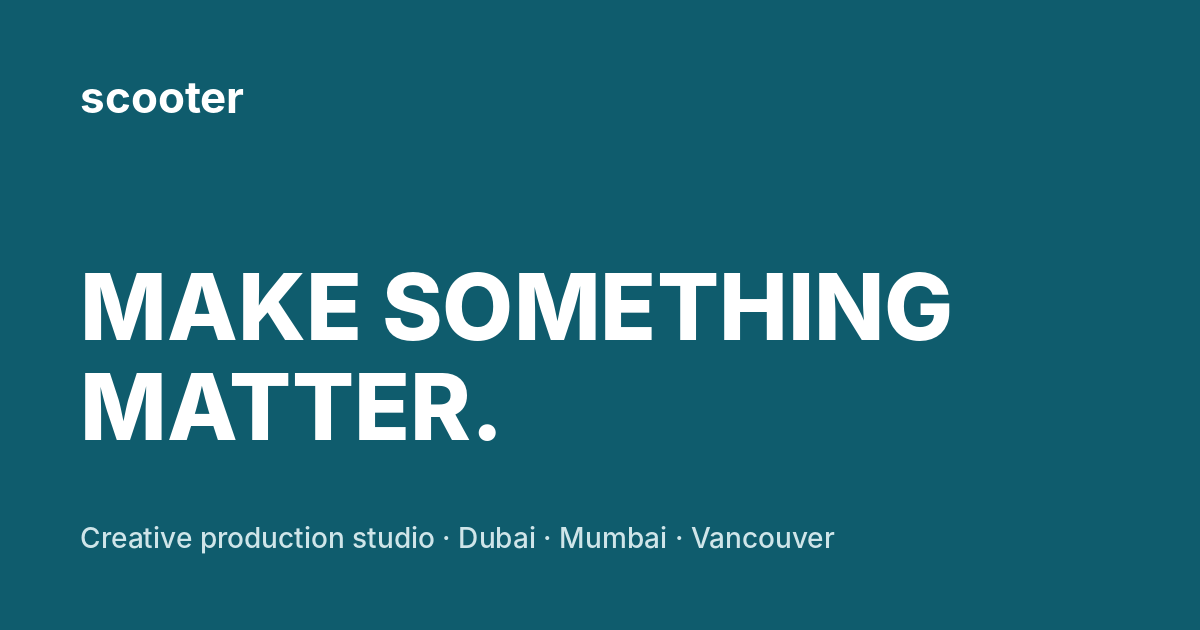
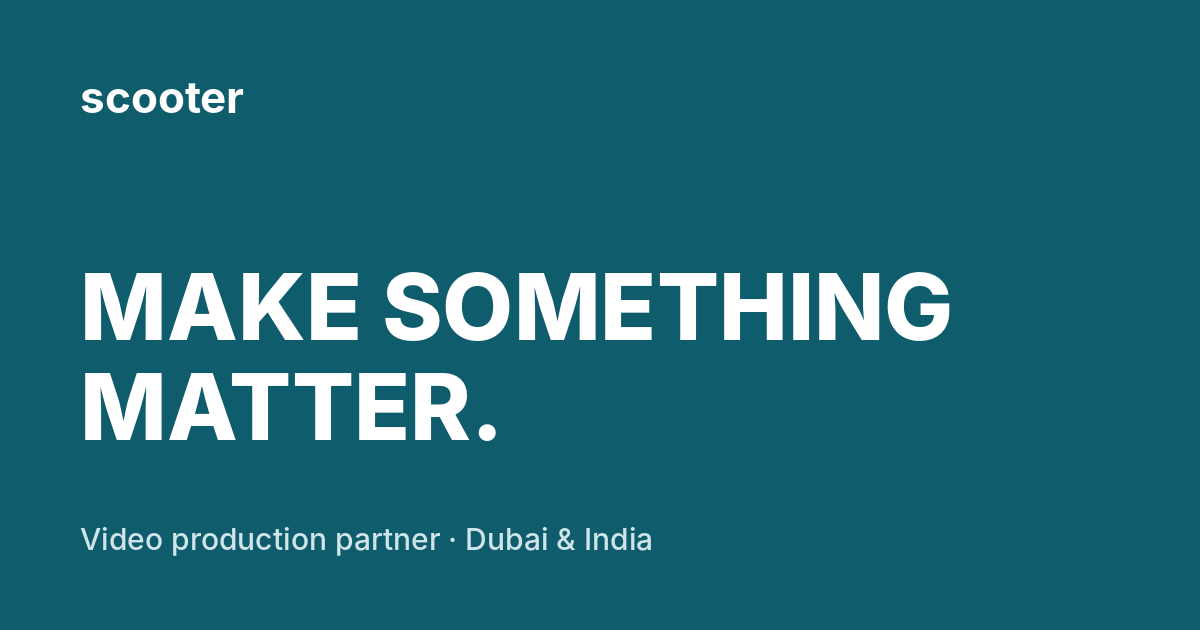
Reposition from "creative production studio" to production partner
- Hero eyebrow: "Production partner · Dubai & India · Est. 2013"
- Hero intro: video production company and end-to-end production
  partner in Dubai and India (pre-production, shoots, post, animation,
  CGI, AI films); creative becomes one part, not the headline
- Footer tagline and share image now say "Video production partner"

Claude-Session: https://claude.ai/code/session_016DFhaNvmjAuoeExki5Y5WS

Changed region(s): [[0.0617, 0.8143, 0.7092, 0.8746]]

diff --git a/index.html b/index.html
@@ -12,14 +12,14 @@
 <meta property="og:title" content="Video Production Company in Dubai &amp;amp; India | Production House | Scooter">
 <meta property="og:description" content="Scooter is a video production company and production house in Dubai and India — film, animation, CGI, AI films and post-production for brands, agencies and real estate across the Middle East. Since 2013.">
 <meta property="og:url" content="https://scootermedia.ae/">
-<meta property="og:image" content="https://scootermedia.ae/assets/img/og-image.png">
+<meta property="og:image" content="https://scootermedia.ae/assets/img/og-image.png?v=20261110i">
 <meta name="twitter:card" content="summary_large_image">
 <link rel="icon" href="/assets/img/favicon.svg" type="image/svg+xml">
 <link rel="apple-touch-icon" href="/assets/img/apple-touch-icon.png">
 <link rel="preconnect" href="https://fonts.googleapis.com">
 <link rel="preconnect" href="https://fonts.gstatic.com" crossorigin>
 <link href="https://fonts.googleapis.com/css2?family=Inter:wght@400;500;600;700;800&display=swap" rel="stylesheet">
-<link rel="stylesheet" href="/assets/css/site.css?v=20261110h">
+<link rel="stylesheet" href="/assets/css/site.css?v=20261110i">
 <link rel="preload" as="image" href="/assets/img/hero-poster.jpg?v={VER}">
 <script type="application/ld+json">{"@context": "https://schema.org", "@type": "Organization", "name": "Scooter", "alternateName": "Scooter Media", "url": "https://scootermedia.ae/", "logo": "https://scootermedia.ae/assets/img/og-image.png", "email": "hello@scootermedia.co", "foundingDate": "2013", "description": "Video production company and production house in Dubai and India: film, animation, CGI, AI films and post-production for brands, agencies and real estate across the Middle East.", "knowsAbout": ["Video production", "Post-production", "AI film production", "Real estate video production", "Commercial production", "Animation", "CGI"], "areaServed": ["United Arab Emirates", "Saudi Arabia", "Qatar", "Oman", "Bahrain", "Kuwait", "India", "Middle East"], "sameAs": ["https://www.instagram.com/scootermediacompany", "https://www.linkedin.com/company/scootermediaco", "https://scootermedia.co"]}</script>
 <script type="application/ld+json">{"@context": "https://schema.org", "@type": "ProfessionalService", "name": "Scooter Media Collective – FZCO", "url": "https://scootermedia.ae/", "email": "hello@scootermedia.co", "telephone": "+91 905 122 2997", "image": "https://scootermedia.ae/assets/img/og-image.png", "address": {"@type": "PostalAddress", "streetAddress": "Building A1, Dubai Digital Park, Dubai Silicon Oasis", "addressLocality": "Dubai", "addressCountry": "AE"}, "areaServed": ["United Arab Emirates", "Saudi Arabia", "Qatar", "Oman", "Bahrain", "Kuwait", "India"], "department": [{"@type": "ProfessionalService", "name": "Scooter Media LLP", "address": {"@type": "PostalAddress", "streetAddress": "WeWork Enam Sambhav, C-20 G Block, BKC, Bandra East", "addressLocality": "Mumbai", "postalCode": "400051", "addressCountry": "IN"}}]}</script>
@@ -30,8 +30,8 @@
 
 <main id="main">
 <section class="hero-v" aria-label="Showreel">
-<video autoplay muted loop playsinline preload="auto" poster="/assets/img/hero-poster.jpg?v=20261110h" aria-hidden="true">
-<source src="/assets/video/showreel.mp4?v=20261110h" type="video/mp4">
+<video autoplay muted loop playsinline preload="auto" poster="/assets/img/hero-poster.jpg?v=20261110i" aria-hidden="true">
+<source src="/assets/video/showreel.mp4?v=20261110i" type="video/mp4">
 </video>
 <div class="scrim"></div>
 <header class="hdr hdr--overlay">
@@ -46,10 +46,10 @@
 </header>
 <button type="button" class="sound" aria-pressed="false" aria-label="Turn sound on"><svg width="18" height="18" viewBox="0 0 24 24" fill="none" stroke="currentColor" stroke-width="2" aria-hidden="true"><path d="M11 5L6 9H2v6h4l5 4V5z"/><path d="M15.5 8.5a5 5 0 0 1 0 7M19 5a10 10 0 0 1 0 14"/></svg></button>
 <div class="content"><div class="wrap">
-<p class="eyebrow">Creative production studio · Est. 2013</p>
+<p class="eyebrow">Production partner · Dubai &amp; India · Est. 2013</p>
 <h1>Make something matter.</h1>
 <div class="cols">
-<p>Scooter is a creative production studio in Dubai, UAE, operating globally and creating culturally fluent, visually ambitious content across film, photography, animation, CGI and emerging technology.</p>
+<p>Scooter is a video production company and end-to-end production partner in Dubai and India — from pre-production and shoots to post-production, animation, CGI and AI films — for brands, agencies and real estate across the Middle East and beyond.</p>
 <p>Our work spans genres, formats and geographies, bringing together creative thinking, the right talent and production expertise to shape ideas into compelling work.</p>
 </div>
 <div class="bar">
@@ -77,7 +77,7 @@
 <footer class="ftr">
 <div class="wrap">
 <div class="ftr-grid">
-<div><div class="logo" style="color:var(--ink);line-height:1.4">scooter</div><div style="line-height:1.6;margin-top:8px">Creative production studio.<br>Since 2013.</div></div>
+<div><div class="logo" style="color:var(--ink);line-height:1.4">scooter</div><div style="line-height:1.6;margin-top:8px">Video production partner.<br>Dubai &amp; India, since 2013.</div></div>
 <div><a href="/about/">About</a><br><a href="/clients/">Clients</a><br><a href="/real-estate/">Real Estate</a><br><a href="/ai-films/">AI Films</a><br><a href="/post-production/">Post-Production</a></div>
 <div><a href="/global/">Global</a><br><a href="/news/">In the News</a><br><a href="/contact/">Contact</a><br><a href="https://scootermedia.co" rel="noopener">scootermedia.co ↗</a></div>
 <div><a href="mailto:hello@scootermedia.co" class="mail">hello@scootermedia.co</a><br><a href="https://wa.me/919051222997" rel="noopener">WhatsApp +91 905 122 2997</a><br><a href="https://www.instagram.com/scootermediacompany" rel="noopener">Instagram</a> · <a href="https://www.linkedin.com/company/scootermediaco" rel="noopener">LinkedIn</a></div>
@@ -85,6 +85,6 @@
 <div class="ftr-bottom"><span>© 2026 Scooter Media Collective – FZCO</span><span>Dubai · Mumbai · Vancouver</span></div>
 </div>
 </footer>
-<script src="/assets/js/site.js?v=20261110h" defer></script>
+<script src="/assets/js/site.js?v=20261110i" defer></script>
 </body>
 </html>

diff --git a/real-estate/index.html b/real-estate/index.html
@@ -12,14 +12,14 @@
 <meta property="og:title" content="Real Estate Video Production in Dubai &amp;amp; UAE for Agencies and Realtors | Scooter">
 <meta property="og:description" content="Real estate video production for agencies and realtors in Dubai, the UAE, Saudi Arabia and Qatar — listing films, property photography, drone, agent reels and CGI, with post-production in India.">
 <meta property="og:url" content="https://scootermedia.ae/real-estate/">
-<meta property="og:image" content="https://scootermedia.ae/assets/img/og-image.png">
+<meta property="og:image" content="https://scootermedia.ae/assets/img/og-image.png?v=20261110i">
 <meta name="twitter:card" content="summary_large_image">
 <link rel="icon" href="/assets/img/favicon.svg" type="image/svg+xml">
 <link rel="apple-touch-icon" href="/assets/img/apple-touch-icon.png">
 <link rel="preconnect" href="https://fonts.googleapis.com">
 <link rel="preconnect" href="https://fonts.gstatic.com" crossorigin>
 <link href="https://fonts.googleapis.com/css2?family=Inter:wght@400;500;600;700;800&display=swap" rel="stylesheet">
-<link rel="stylesheet" href="/assets/css/site.css?v=20261110h">
+<link rel="stylesheet" href="/assets/css/site.css?v=20261110i">
 <script type="application/ld+json">{"@context": "https://schema.org", "@type": "Service", "serviceType": "Real estate video and photo production", "provider": {"@type": "Organization", "name": "Scooter", "url": "https://scootermedia.ae/"}, "areaServed": ["Dubai", "United Arab Emirates", "Saudi Arabia", "Qatar"], "audience": {"@type": "BusinessAudience", "audienceType": "Real estate agencies, brokerages, realtors and developers"}}</script>
 <script type="application/ld+json">{"@context": "https://schema.org", "@type": "FAQPage", "mainEntity": [{"@type": "Question", "name": "How quickly can you shoot and deliver a listing?", "acceptedAnswer": {"@type": "Answer", "text": "We can usually shoot within a few days of the brief. Tell us your go-live date and we plan the shoot and edit around it."}}, {"@type": "Question", "name": "Do you work with individual realtors, or only agencies?", "acceptedAnswer": {"@type": "Answer", "text": "Both. We work with brokerages on volume and monthly retainers, and with independent agents on single listings and personal brand content."}}, {"@type": "Question", "name": "Which areas do you cover?", "acceptedAnswer": {"@type": "Answer", "text": "Dubai and across the UAE, with shoots in Saudi Arabia and Qatar. Post-production runs from our India team."}}, {"@type": "Question", "name": "Can you market off-plan projects?", "acceptedAnswer": {"@type": "Answer", "text": "Yes — CGI renders, animated walkthroughs and AI-assisted visuals let you market a project before construction."}}, {"@type": "Question", "name": "Can you edit our property videos remotely from India?", "acceptedAnswer": {"@type": "Answer", "text": "Yes. Send footage from your own shoots and our post-production team in India edits, grades and delivers portal-ready cuts, usually with overnight turnaround across time zones."}}, {"@type": "Question", "name": "Do you deliver in the formats property portals need?", "acceptedAnswer": {"@type": "Answer", "text": "Every project is delivered in horizontal, vertical and square cuts for property portals, Instagram, TikTok, YouTube and WhatsApp."}}]}</script>
 <script type="application/ld+json">{"@context": "https://schema.org", "@type": "BreadcrumbList", "itemListElement": [{"@type": "ListItem", "position": 1, "name": "Home", "item": "https://scootermedia.ae/"}, {"@type": "ListItem", "position": 2, "name": "Real Estate", "item": "https://scootermedia.ae/real-estate/"}]}</script>
@@ -70,7 +70,7 @@
 <footer class="ftr">
 <div class="wrap">
 <div class="ftr-grid">
-<div><div class="logo" style="color:var(--ink);line-height:1.4">scooter</div><div style="line-height:1.6;margin-top:8px">Creative production studio.<br>Since 2013.</div></div>
+<div><div class="logo" style="color:var(--ink);line-height:1.4">scooter</div><div style="line-height:1.6;margin-top:8px">Video production partner.<br>Dubai &amp; India, since 2013.</div></div>
 <div><a href="/about/">About</a><br><a href="/clients/">Clients</a><br><a href="/real-estate/">Real Estate</a><br><a href="/ai-films/">AI Films</a><br><a href="/post-production/">Post-Production</a></div>
 <div><a href="/global/">Global</a><br><a href="/news/">In the News</a><br><a href="/contact/">Contact</a><br><a href="https://scootermedia.co" rel="noopener">scootermedia.co ↗</a></div>
 <div><a href="mailto:hello@scootermedia.co" class="mail">hello@scootermedia.co</a><br><a href="https://wa.me/919051222997" rel="noopener">WhatsApp +91 905 122 2997</a><br><a href="https://www.instagram.com/scootermediacompany" rel="noopener">Instagram</a> · <a href="https://www.linkedin.com/company/scootermediaco" rel="noopener">LinkedIn</a></div>
@@ -78,6 +78,6 @@
 <div class="ftr-bottom"><span>© 2026 Scooter Media Collective – FZCO</span><span>Dubai · Mumbai · Vancouver</span></div>
 </div>
 </footer>
-<script src="/assets/js/site.js?v=20261110h" defer></script>
+<script src="/assets/js/site.js?v=20261110i" defer></script>
 </body>
 </html>

diff --git a/post-production/index.html b/post-production/index.html
@@ -12,14 +12,14 @@
 <meta property="og:title" content="Post-Production Partner in India for Middle East Agencies | Scooter">
 <meta property="og:description" content="Scooter is a post-production partner in India for agencies and brands in Dubai, the UAE and the Middle East — edit, colour, sound, VFX, Arabic and multilingual versions, remote review.">
 <meta property="og:url" content="https://scootermedia.ae/post-production/">
-<meta property="og:image" content="https://scootermedia.ae/assets/img/og-image.png">
+<meta property="og:image" content="https://scootermedia.ae/assets/img/og-image.png?v=20261110i">
 <meta name="twitter:card" content="summary_large_image">
 <link rel="icon" href="/assets/img/favicon.svg" type="image/svg+xml">
 <link rel="apple-touch-icon" href="/assets/img/apple-touch-icon.png">
 <link rel="preconnect" href="https://fonts.googleapis.com">
 <link rel="preconnect" href="https://fonts.gstatic.com" crossorigin>
 <link href="https://fonts.googleapis.com/css2?family=Inter:wght@400;500;600;700;800&display=swap" rel="stylesheet">
-<link rel="stylesheet" href="/assets/css/site.css?v=20261110h">
+<link rel="stylesheet" href="/assets/css/site.css?v=20261110i">
 <script type="application/ld+json">{"@context": "https://schema.org", "@type": "Service", "serviceType": "Post-production", "provider": {"@type": "Organization", "name": "Scooter", "url": "https://scootermedia.ae/"}, "areaServed": ["United Arab Emirates", "Saudi Arabia", "Qatar", "Middle East", "India"]}</script>
 <script type="application/ld+json">{"@context": "https://schema.org", "@type": "FAQPage", "mainEntity": [{"@type": "Question", "name": "Why choose a post-production partner in India?", "acceptedAnswer": {"@type": "Answer", "text": "You get a senior edit, colour and sound team at a lower cost, working in a time zone that turns work around overnight for Gulf agencies."}}, {"@type": "Question", "name": "How do you receive footage and share reviews?", "acceptedAnswer": {"@type": "Answer", "text": "Send footage by cloud transfer or drive. We share cuts through online review links with frame-accurate comments, so your team approves remotely."}}, {"@type": "Question", "name": "Can you deliver in Arabic and other languages?", "acceptedAnswer": {"@type": "Answer", "text": "Yes. We handle subtitles, dubbing and multilingual versions, and deliver every aspect ratio your media plan needs."}}, {"@type": "Question", "name": "Do you only edit footage you shot?", "acceptedAnswer": {"@type": "Answer", "text": "No. Most post-production work comes from footage shot by agencies and other production companies in the UAE, Saudi Arabia and Qatar."}}]}</script>
 <script type="application/ld+json">{"@context": "https://schema.org", "@type": "BreadcrumbList", "itemListElement": [{"@type": "ListItem", "position": 1, "name": "Home", "item": "https://scootermedia.ae/"}, {"@type": "ListItem", "position": 2, "name": "Post-Production", "item": "https://scootermedia.ae/post-production/"}]}</script>
@@ -62,7 +62,7 @@
 <footer class="ftr">
 <div class="wrap">
 <div class="ftr-grid">
-<div><div class="logo" style="color:var(--ink);line-height:1.4">scooter</div><div style="line-height:1.6;margin-top:8px">Creative production studio.<br>Since 2013.</div></div>
+<div><div class="logo" style="color:var(--ink);line-height:1.4">scooter</div><div style="line-height:1.6;margin-top:8px">Video production partner.<br>Dubai &amp; India, since 2013.</div></div>
 <div><a href="/about/">About</a><br><a href="/clients/">Clients</a><br><a href="/real-estate/">Real Estate</a><br><a href="/ai-films/">AI Films</a><br><a href="/post-production/">Post-Production</a></div>
 <div><a href="/global/">Global</a><br><a href="/news/">In the News</a><br><a href="/contact/">Contact</a><br><a href="https://scootermedia.co" rel="noopener">scootermedia.co ↗</a></div>
 <div><a href="mailto:hello@scootermedia.co" class="mail">hello@scootermedia.co</a><br><a href="https://wa.me/919051222997" rel="noopener">WhatsApp +91 905 122 2997</a><br><a href="https://www.instagram.com/scootermediacompany" rel="noopener">Instagram</a> · <a href="https://www.linkedin.com/company/scootermediaco" rel="noopener">LinkedIn</a></div>
@@ -70,6 +70,6 @@
 <div class="ftr-bottom"><span>© 2026 Scooter Media Collective – FZCO</span><span>Dubai · Mumbai · Vancouver</span></div>
 </div>
 </footer>
-<script src="/assets/js/site.js?v=20261110h" defer></script>
+<script src="/assets/js/site.js?v=20261110i" defer></script>
 </body>
 </html>

diff --git a/global/index.html b/global/index.html
@@ -12,14 +12,14 @@
 <meta property="og:title" content="Global Production House in India &amp;amp; Dubai | Production Services | Scooter">
 <meta property="og:description" content="Scooter is a global production house in India and Dubai — production services, crews and post-production for international and GCC agencies and brands.">
 <meta property="og:url" content="https://scootermedia.ae/global/">
-<meta property="og:image" content="https://scootermedia.ae/assets/img/og-image.png">
+<meta property="og:image" content="https://scootermedia.ae/assets/img/og-image.png?v=20261110i">
 <meta name="twitter:card" content="summary_large_image">
 <link rel="icon" href="/assets/img/favicon.svg" type="image/svg+xml">
 <link rel="apple-touch-icon" href="/assets/img/apple-touch-icon.png">
 <link rel="preconnect" href="https://fonts.googleapis.com">
 <link rel="preconnect" href="https://fonts.gstatic.com" crossorigin>
 <link href="https://fonts.googleapis.com/css2?family=Inter:wght@400;500;600;700;800&display=swap" rel="stylesheet">
-<link rel="stylesheet" href="/assets/css/site.css?v=20261110h">
+<link rel="stylesheet" href="/assets/css/site.css?v=20261110i">
 <script type="application/ld+json">{"@context": "https://schema.org", "@type": "Service", "serviceType": "Production services", "provider": {"@type": "Organization", "name": "Scooter", "url": "https://scootermedia.ae/"}, "areaServed": ["India", "United Arab Emirates", "Middle East"]}</script>
 <script type="application/ld+json">{"@context": "https://schema.org", "@type": "FAQPage", "mainEntity": [{"@type": "Question", "name": "Is Scooter a production house in India?", "acceptedAnswer": {"@type": "Answer", "text": "Yes. Scooter is a global production house with teams in Mumbai and Dubai, offering production services, crews, locations and post-production in India for international and GCC teams."}}, {"@type": "Question", "name": "Can you service our shoot in India?", "acceptedAnswer": {"@type": "Answer", "text": "Yes. We handle line production, crews, permits, locations, talent and equipment across India, and can run post-production for the same project."}}, {"@type": "Question", "name": "Which agencies have you worked with?", "acceptedAnswer": {"@type": "Answer", "text": "International agencies and studios including Hecho Studios, FCB Chicago, Instrument, Bella Film, Across the Pond, Beautiful Destinations, Saatchi & Saatchi Propagate and Edelman."}}]}</script>
 <script type="application/ld+json">{"@context": "https://schema.org", "@type": "BreadcrumbList", "itemListElement": [{"@type": "ListItem", "position": 1, "name": "Home", "item": "https://scootermedia.ae/"}, {"@type": "ListItem", "position": 2, "name": "Global", "item": "https://scootermedia.ae/global/"}]}</script>
@@ -63,7 +63,7 @@
 <footer class="ftr">
 <div class="wrap">
 <div class="ftr-grid">
-<div><div class="logo" style="color:var(--ink);line-height:1.4">scooter</div><div style="line-height:1.6;margin-top:8px">Creative production studio.<br>Since 2013.</div></div>
+<div><div class="logo" style="color:var(--ink);line-height:1.4">scooter</div><div style="line-height:1.6;margin-top:8px">Video production partner.<br>Dubai &amp; India, since 2013.</div></div>
 <div><a href="/about/">About</a><br><a href="/clients/">Clients</a><br><a href="/real-estate/">Real Estate</a><br><a href="/ai-films/">AI Films</a><br><a href="/post-production/">Post-Production</a></div>
 <div><a href="/global/">Global</a><br><a href="/news/">In the News</a><br><a href="/contact/">Contact</a><br><a href="https://scootermedia.co" rel="noopener">scootermedia.co ↗</a></div>
 <div><a href="mailto:hello@scootermedia.co" class="mail">hello@scootermedia.co</a><br><a href="https://wa.me/919051222997" rel="noopener">WhatsApp +91 905 122 2997</a><br><a href="https://www.instagram.com/scootermediacompany" rel="noopener">Instagram</a> · <a href="https://www.linkedin.com/company/scootermediaco" rel="noopener">LinkedIn</a></div>
@@ -71,6 +71,6 @@
 <div class="ftr-bottom"><span>© 2026 Scooter Media Collective – FZCO</span><span>Dubai · Mumbai · Vancouver</span></div>
 </div>
 </footer>
-<script src="/assets/js/site.js?v=20261110h" defer></script>
+<script src="/assets/js/site.js?v=20261110i" defer></script>
 </body>
 </html>

diff --git a/ai-films/index.html b/ai-films/index.html
@@ -12,14 +12,14 @@
 <meta property="og:title" content="AI Production Partner in Dubai &amp;amp; India | AI Film Production | Scooter AI">
 <meta property="og:description" content="Scooter AI is an AI production partner for brands and agencies in Dubai, the Middle East and India — AI brand films, series and campaigns, from concept to final cut.">
 <meta property="og:url" content="https://scootermedia.ae/ai-films/">
-<meta property="og:image" content="https://scootermedia.ae/assets/img/og-image.png">
+<meta property="og:image" content="https://scootermedia.ae/assets/img/og-image.png?v=20261110i">
 <meta name="twitter:card" content="summary_large_image">
 <link rel="icon" href="/assets/img/favicon.svg" type="image/svg+xml">
 <link rel="apple-touch-icon" href="/assets/img/apple-touch-icon.png">
 <link rel="preconnect" href="https://fonts.googleapis.com">
 <link rel="preconnect" href="https://fonts.gstatic.com" crossorigin>
 <link href="https://fonts.googleapis.com/css2?family=Inter:wght@400;500;600;700;800&display=swap" rel="stylesheet">
-<link rel="stylesheet" href="/assets/css/site.css?v=20261110h">
+<link rel="stylesheet" href="/assets/css/site.css?v=20261110i">
 <script type="application/ld+json">{"@context": "https://schema.org", "@type": "Service", "serviceType": "AI film production", "provider": {"@type": "Organization", "name": "Scooter", "url": "https://scootermedia.ae/"}, "areaServed": ["United Arab Emirates", "Middle East", "India"]}</script>
 <script type="application/ld+json">{"@context": "https://schema.org", "@type": "FAQPage", "mainEntity": [{"@type": "Question", "name": "What does an AI production partner do?", "acceptedAnswer": {"@type": "Answer", "text": "We take a brief from concept to final film using AI — script, characters, world design, generation, edit, sound and languages — with the same craft and review process as a live-action shoot."}}, {"@type": "Question", "name": "Can AI films work for regulated categories like pharma?", "acceptedAnswer": {"@type": "Answer", "text": "Yes. Our Dr Reddy’s brand film was produced entirely with AI and built to run in front of doctors."}}, {"@type": "Question", "name": "Do you combine AI with live action?", "acceptedAnswer": {"@type": "Answer", "text": "Yes. We shoot what must be real and generate what can’t be, then finish both together in post-production."}}]}</script>
 <script type="application/ld+json">{"@context": "https://schema.org", "@type": "BreadcrumbList", "itemListElement": [{"@type": "ListItem", "position": 1, "name": "Home", "item": "https://scootermedia.ae/"}, {"@type": "ListItem", "position": 2, "name": "AI Films", "item": "https://scootermedia.ae/ai-films/"}]}</script>
@@ -62,7 +62,7 @@
 <footer class="ftr">
 <div class="wrap">
 <div class="ftr-grid">
-<div><div class="logo" style="color:var(--ink);line-height:1.4">scooter</div><div style="line-height:1.6;margin-top:8px">Creative production studio.<br>Since 2013.</div></div>
+<div><div class="logo" style="color:var(--ink);line-height:1.4">scooter</div><div style="line-height:1.6;margin-top:8px">Video production partner.<br>Dubai &amp; India, since 2013.</div></div>
 <div><a href="/about/">About</a><br><a href="/clients/">Clients</a><br><a href="/real-estate/">Real Estate</a><br><a href="/ai-films/">AI Films</a><br><a href="/post-production/">Post-Production</a></div>
 <div><a href="/global/">Global</a><br><a href="/news/">In the News</a><br><a href="/contact/">Contact</a><br><a href="https://scootermedia.co" rel="noopener">scootermedia.co ↗</a></div>
 <div><a href="mailto:hello@scootermedia.co" class="mail">hello@scootermedia.co</a><br><a href="https://wa.me/919051222997" rel="noopener">WhatsApp +91 905 122 2997</a><br><a href="https://www.instagram.com/scootermediacompany" rel="noopener">Instagram</a> · <a href="https://www.linkedin.com/company/scootermediaco" rel="noopener">LinkedIn</a></div>
@@ -70,6 +70,6 @@
 <div class="ftr-bottom"><span>© 2026 Scooter Media Collective – FZCO</span><span>Dubai · Mumbai · Vancouver</span></div>
 </div>
 </footer>
-<script src="/assets/js/site.js?v=20261110h" defer></script>
+<script src="/assets/js/site.js?v=20261110i" defer></script>
 </body>
 </html>

diff --git a/about/index.html b/about/index.html
@@ -12,14 +12,14 @@
 <meta property="og:title" content="About Scooter — Production House in Dubai &amp;amp; India Since 2013">
 <meta property="og:description" content="Founded in 2013 by Richaa Agarwal, Scooter is a video production company and production house in Dubai and Mumbai producing film, animation, CGI, AI films and post-production.">
 <meta property="og:url" content="https://scootermedia.ae/about/">
-<meta property="og:image" content="https://scootermedia.ae/assets/img/og-image.png">
+<meta property="og:image" content="https://scootermedia.ae/assets/img/og-image.png?v=20261110i">
 <meta name="twitter:card" content="summary_large_image">
 <link rel="icon" href="/assets/img/favicon.svg" type="image/svg+xml">
 <link rel="apple-touch-icon" href="/assets/img/apple-touch-icon.png">
 <link rel="preconnect" href="https://fonts.googleapis.com">
 <link rel="preconnect" href="https://fonts.gstatic.com" crossorigin>
 <link href="https://fonts.googleapis.com/css2?family=Inter:wght@400;500;600;700;800&display=swap" rel="stylesheet">
-<link rel="stylesheet" href="/assets/css/site.css?v=20261110h">
+<link rel="stylesheet" href="/assets/css/site.css?v=20261110i">
 <script type="application/ld+json">{"@context": "https://schema.org", "@type": "Organization", "name": "Scooter", "alternateName": "Scooter Media", "url": "https://scootermedia.ae/", "logo": "https://scootermedia.ae/assets/img/og-image.png", "email": "hello@scootermedia.co", "foundingDate": "2013", "description": "Video production company and production house in Dubai and India: film, animation, CGI, AI films and post-production for brands, agencies and real estate across the Middle East.", "knowsAbout": ["Video production", "Post-production", "AI film production", "Real estate video production", "Commercial production", "Animation", "CGI"], "areaServed": ["United Arab Emirates", "Saudi Arabia", "Qatar", "Oman", "Bahrain", "Kuwait", "India", "Middle East"], "sameAs": ["https://www.instagram.com/scootermediacompany", "https://www.linkedin.com/company/scootermediaco", "https://scootermedia.co"]}</script>
 <script type="application/ld+json">{"@context": "https://schema.org", "@type": "BreadcrumbList", "itemListElement": [{"@type": "ListItem", "position": 1, "name": "Home", "item": "https://scootermedia.ae/"}, {"@type": "ListItem", "position": 2, "name": "About", "item": "https://scootermedia.ae/about/"}]}</script>
 </head>
@@ -63,7 +63,7 @@
 <footer class="ftr">
 <div class="wrap">
 <div class="ftr-grid">
-<div><div class="logo" style="color:var(--ink);line-height:1.4">scooter</div><div style="line-height:1.6;margin-top:8px">Creative production studio.<br>Since 2013.</div></div>
+<div><div class="logo" style="color:var(--ink);line-height:1.4">scooter</div><div style="line-height:1.6;margin-top:8px">Video production partner.<br>Dubai &amp; India, since 2013.</div></div>
 <div><a href="/about/">About</a><br><a href="/clients/">Clients</a><br><a href="/real-estate/">Real Estate</a><br><a href="/ai-films/">AI Films</a><br><a href="/post-production/">Post-Production</a></div>
 <div><a href="/global/">Global</a><br><a href="/news/">In the News</a><br><a href="/contact/">Contact</a><br><a href="https://scootermedia.co" rel="noopener">scootermedia.co ↗</a></div>
 <div><a href="mailto:hello@scootermedia.co" class="mail">hello@scootermedia.co</a><br><a href="https://wa.me/919051222997" rel="noopener">WhatsApp +91 905 122 2997</a><br><a href="https://www.instagram.com/scootermediacompany" rel="noopener">Instagram</a> · <a href="https://www.linkedin.com/company/scootermediaco" rel="noopener">LinkedIn</a></div>
@@ -71,6 +71,6 @@
 <div class="ftr-bottom"><span>© 2026 Scooter Media Collective – FZCO</span><span>Dubai · Mumbai · Vancouver</span></div>
 </div>
 </footer>
-<script src="/assets/js/site.js?v=20261110h" defer></script>
+<script src="/assets/js/site.js?v=20261110i" defer></script>
 </body>
 </html>

diff --git a/contact/index.html b/contact/index.html
@@ -12,14 +12,14 @@
 <meta property="og:title" content="Contact Scooter — Video Production Company in Dubai &amp;amp; India">
 <meta property="og:description" content="Contact Scooter, a video production company in Dubai and Mumbai. WhatsApp +91 905 122 2997 or email hello@scootermedia.co to brief a real estate, brand, AI or post-production project.">
 <meta property="og:url" content="https://scootermedia.ae/contact/">
-<meta property="og:image" content="https://scootermedia.ae/assets/img/og-image.png">
+<meta property="og:image" content="https://scootermedia.ae/assets/img/og-image.png?v=20261110i">
 <meta name="twitter:card" content="summary_large_image">
 <link rel="icon" href="/assets/img/favicon.svg" type="image/svg+xml">
 <link rel="apple-touch-icon" href="/assets/img/apple-touch-icon.png">
 <link rel="preconnect" href="https://fonts.googleapis.com">
 <link rel="preconnect" href="https://fonts.gstatic.com" crossorigin>
 <link href="https://fonts.googleapis.com/css2?family=Inter:wght@400;500;600;700;800&display=swap" rel="stylesheet">
-<link rel="stylesheet" href="/assets/css/site.css?v=20261110h">
+<link rel="stylesheet" href="/assets/css/site.css?v=20261110i">
 <script type="application/ld+json">{"@context": "https://schema.org", "@type": "ProfessionalService", "name": "Scooter Media Collective – FZCO", "url": "https://scootermedia.ae/", "email": "hello@scootermedia.co", "telephone": "+91 905 122 2997", "image": "https://scootermedia.ae/assets/img/og-image.png", "address": {"@type": "PostalAddress", "streetAddress": "Building A1, Dubai Digital Park, Dubai Silicon Oasis", "addressLocality": "Dubai", "addressCountry": "AE"}, "areaServed": ["United Arab Emirates", "Saudi Arabia", "Qatar", "Oman", "Bahrain", "Kuwait", "India"], "department": [{"@type": "ProfessionalService", "name": "Scooter Media LLP", "address": {"@type": "PostalAddress", "streetAddress": "WeWork Enam Sambhav, C-20 G Block, BKC, Bandra East", "addressLocality": "Mumbai", "postalCode": "400051", "addressCountry": "IN"}}]}</script>
 <script type="application/ld+json">{"@context": "https://schema.org", "@type": "BreadcrumbList", "itemListElement": [{"@type": "ListItem", "position": 1, "name": "Home", "item": "https://scootermedia.ae/"}, {"@type": "ListItem", "position": 2, "name": "Contact", "item": "https://scootermedia.ae/contact/"}]}</script>
 </head>
@@ -71,7 +71,7 @@
 <footer class="ftr">
 <div class="wrap">
 <div class="ftr-grid">
-<div><div class="logo" style="color:var(--ink);line-height:1.4">scooter</div><div style="line-height:1.6;margin-top:8px">Creative production studio.<br>Since 2013.</div></div>
+<div><div class="logo" style="color:var(--ink);line-height:1.4">scooter</div><div style="line-height:1.6;margin-top:8px">Video production partner.<br>Dubai &amp; India, since 2013.</div></div>
 <div><a href="/about/">About</a><br><a href="/clients/">Clients</a><br><a href="/real-estate/">Real Estate</a><br><a href="/ai-films/">AI Films</a><br><a href="/post-production/">Post-Production</a></div>
 <div><a href="/global/">Global</a><br><a href="/news/">In the News</a><br><a href="/contact/">Contact</a><br><a href="https://scootermedia.co" rel="noopener">scootermedia.co ↗</a></div>
 <div><a href="mailto:hello@scootermedia.co" class="mail">hello@scootermedia.co</a><br><a href="https://wa.me/919051222997" rel="noopener">WhatsApp +91 905 122 2997</a><br><a href="https://www.instagram.com/scootermediacompany" rel="noopener">Instagram</a> · <a href="https://www.linkedin.com/company/scootermediaco" rel="noopener">LinkedIn</a></div>
@@ -79,6 +79,6 @@
 <div class="ftr-bottom"><span>© 2026 Scooter Media Collective – FZCO</span><span>Dubai · Mumbai · Vancouver</span></div>
 </div>
 </footer>
-<script src="/assets/js/site.js?v=20261110h" defer></script>
+<script src="/assets/js/site.js?v=20261110i" defer></script>
 </body>
 </html>

diff --git a/clients/index.html b/clients/index.html
@@ -12,14 +12,14 @@
 <meta property="og:title" content="Clients — Google, Meta, Boeing, Puma &amp;amp; more | Scooter">
 <meta property="og:description" content="Scooter has produced for Google, Meta, Boeing, Puma, Starbucks, H&amp;M, Toyota, Warner Bros. Discovery, Dr Reddy’s and agencies like FCB Chicago and Hecho Studios.">
 <meta property="og:url" content="https://scootermedia.ae/clients/">
-<meta property="og:image" content="https://scootermedia.ae/assets/img/og-image.png">
+<meta property="og:image" content="https://scootermedia.ae/assets/img/og-image.png?v=20261110i">
 <meta name="twitter:card" content="summary_large_image">
 <link rel="icon" href="/assets/img/favicon.svg" type="image/svg+xml">
 <link rel="apple-touch-icon" href="/assets/img/apple-touch-icon.png">
 <link rel="preconnect" href="https://fonts.googleapis.com">
 <link rel="preconnect" href="https://fonts.gstatic.com" crossorigin>
 <link href="https://fonts.googleapis.com/css2?family=Inter:wght@400;500;600;700;800&display=swap" rel="stylesheet">
-<link rel="stylesheet" href="/assets/css/site.css?v=20261110h">
+<link rel="stylesheet" href="/assets/css/site.css?v=20261110i">
 <script type="application/ld+json">{"@context": "https://schema.org", "@type": "BreadcrumbList", "itemListElement": [{"@type": "ListItem", "position": 1, "name": "Home", "item": "https://scootermedia.ae/"}, {"@type": "ListItem", "position": 2, "name": "Clients", "item": "https://scootermedia.ae/clients/"}]}</script>
 </head>
 <body>
@@ -61,7 +61,7 @@
 <footer class="ftr">
 <div class="wrap">
 <div class="ftr-grid">
-<div><div class="logo" style="color:var(--ink);line-height:1.4">scooter</div><div style="line-height:1.6;margin-top:8px">Creative production studio.<br>Since 2013.</div></div>
+<div><div class="logo" style="color:var(--ink);line-height:1.4">scooter</div><div style="line-height:1.6;margin-top:8px">Video production partner.<br>Dubai &amp; India, since 2013.</div></div>
 <div><a href="/about/">About</a><br><a href="/clients/">Clients</a><br><a href="/real-estate/">Real Estate</a><br><a href="/ai-films/">AI Films</a><br><a href="/post-production/">Post-Production</a></div>
 <div><a href="/global/">Global</a><br><a href="/news/">In the News</a><br><a href="/contact/">Contact</a><br><a href="https://scootermedia.co" rel="noopener">scootermedia.co ↗</a></div>
 <div><a href="mailto:hello@scootermedia.co" class="mail">hello@scootermedia.co</a><br><a href="https://wa.me/919051222997" rel="noopener">WhatsApp +91 905 122 2997</a><br><a href="https://www.instagram.com/scootermediacompany" rel="noopener">Instagram</a> · <a href="https://www.linkedin.com/company/scootermediaco" rel="noopener">LinkedIn</a></div>
@@ -69,6 +69,6 @@
 <div class="ftr-bottom"><span>© 2026 Scooter Media Collective – FZCO</span><span>Dubai · Mumbai · Vancouver</span></div>
 </div>
 </footer>
-<script src="/assets/js/site.js?v=20261110h" defer></script>
+<script src="/assets/js/site.js?v=20261110i" defer></script>
 </body>
 </html>

diff --git a/news/index.html b/news/index.html
@@ -12,14 +12,14 @@
 <meta property="og:title" content="Scooter in the News — Press &amp;amp; Features">
 <meta property="og:description" content="Press coverage of Scooter’s work in LBB Online, Exchange4Media, Vogue India, The Times of India and more.">
 <meta property="og:url" content="https://scootermedia.ae/news/">
-<meta property="og:image" content="https://scootermedia.ae/assets/img/og-image.png">
+<meta property="og:image" content="https://scootermedia.ae/assets/img/og-image.png?v=20261110i">
 <meta name="twitter:card" content="summary_large_image">
 <link rel="icon" href="/assets/img/favicon.svg" type="image/svg+xml">
 <link rel="apple-touch-icon" href="/assets/img/apple-touch-icon.png">
 <link rel="preconnect" href="https://fonts.googleapis.com">
 <link rel="preconnect" href="https://fonts.gstatic.com" crossorigin>
 <link href="https://fonts.googleapis.com/css2?family=Inter:wght@400;500;600;700;800&display=swap" rel="stylesheet">
-<link rel="stylesheet" href="/assets/css/site.css?v=20261110h">
+<link rel="stylesheet" href="/assets/css/site.css?v=20261110i">
 <script type="application/ld+json">{"@context": "https://schema.org", "@type": "BreadcrumbList", "itemListElement": [{"@type": "ListItem", "position": 1, "name": "Home", "item": "https://scootermedia.ae/"}, {"@type": "ListItem", "position": 2, "name": "In the News", "item": "https://scootermedia.ae/news/"}]}</script>
 </head>
 <body>
@@ -52,7 +52,7 @@
 <footer class="ftr">
 <div class="wrap">
 <div class="ftr-grid">
-<div><div class="logo" style="color:var(--ink);line-height:1.4">scooter</div><div style="line-height:1.6;margin-top:8px">Creative production studio.<br>Since 2013.</div></div>
+<div><div class="logo" style="color:var(--ink);line-height:1.4">scooter</div><div style="line-height:1.6;margin-top:8px">Video production partner.<br>Dubai &amp; India, since 2013.</div></div>
 <div><a href="/about/">About</a><br><a href="/clients/">Clients</a><br><a href="/real-estate/">Real Estate</a><br><a href="/ai-films/">AI Films</a><br><a href="/post-production/">Post-Production</a></div>
 <div><a href="/global/">Global</a><br><a href="/news/">In the News</a><br><a href="/contact/">Contact</a><br><a href="https://scootermedia.co" rel="noopener">scootermedia.co ↗</a></div>
 <div><a href="mailto:hello@scootermedia.co" class="mail">hello@scootermedia.co</a><br><a href="https://wa.me/919051222997" rel="noopener">WhatsApp +91 905 122 2997</a><br><a href="https://www.instagram.com/scootermediacompany" rel="noopener">Instagram</a> · <a href="https://www.linkedin.com/company/scootermediaco" rel="noopener">LinkedIn</a></div>
@@ -60,6 +60,6 @@
 <div class="ftr-bottom"><span>© 2026 Scooter Media Collective – FZCO</span><span>Dubai · Mumbai · Vancouver</span></div>
 </div>
 </footer>
-<script src="/assets/js/site.js?v=20261110h" defer></script>
+<script src="/assets/js/site.js?v=20261110i" defer></script>
 </body>
 </html>

diff --git a/404.html b/404.html
@@ -13,14 +13,14 @@
 <meta property="og:title" content="Page not found | Scooter">
 <meta property="og:description" content="The page you are looking for could not be found.">
 <meta property="og:url" content="https://scootermedia.ae/404">
-<meta property="og:image" content="https://scootermedia.ae/assets/img/og-image.png">
+<meta property="og:image" content="https://scootermedia.ae/assets/img/og-image.png?v=20261110i">
 <meta name="twitter:card" content="summary_large_image">
 <link rel="icon" href="/assets/img/favicon.svg" type="image/svg+xml">
 <link rel="apple-touch-icon" href="/assets/img/apple-touch-icon.png">
 <link rel="preconnect" href="https://fonts.googleapis.com">
 <link rel="preconnect" href="https://fonts.gstatic.com" crossorigin>
 <link href="https://fonts.googleapis.com/css2?family=Inter:wght@400;500;600;700;800&display=swap" rel="stylesheet">
-<link rel="stylesheet" href="/assets/css/site.css?v=20261110h">
+<link rel="stylesheet" href="/assets/css/site.css?v=20261110i">
 </head>
 <body>
 <a href="#main" class="skip">Skip to content</a>
@@ -44,7 +44,7 @@
 <footer class="ftr">
 <div class="wrap">
 <div class="ftr-grid">
-<div><div class="logo" style="color:var(--ink);line-height:1.4">scooter</div><div style="line-height:1.6;margin-top:8px">Creative production studio.<br>Since 2013.</div></div>
+<div><div class="logo" style="color:var(--ink);line-height:1.4">scooter</div><div style="line-height:1.6;margin-top:8px">Video production partner.<br>Dubai &amp; India, since 2013.</div></div>
 <div><a href="/about/">About</a><br><a href="/clients/">Clients</a><br><a href="/real-estate/">Real Estate</a><br><a href="/ai-films/">AI Films</a><br><a href="/post-production/">Post-Production</a></div>
 <div><a href="/global/">Global</a><br><a href="/news/">In the News</a><br><a href="/contact/">Contact</a><br><a href="https://scootermedia.co" rel="noopener">scootermedia.co ↗</a></div>
 <div><a href="mailto:hello@scootermedia.co" class="mail">hello@scootermedia.co</a><br><a href="https://wa.me/919051222997" rel="noopener">WhatsApp +91 905 122 2997</a><br><a href="https://www.instagram.com/scootermediacompany" rel="noopener">Instagram</a> · <a href="https://www.linkedin.com/company/scootermediaco" rel="noopener">LinkedIn</a></div>
@@ -52,6 +52,6 @@
 <div class="ftr-bottom"><span>© 2026 Scooter Media Collective – FZCO</span><span>Dubai · Mumbai · Vancouver</span></div>
 </div>
 </footer>
-<script src="/assets/js/site.js?v=20261110h" defer></script>
+<script src="/assets/js/site.js?v=20261110i" defer></script>
 </body>
 </html>

diff --git a/README.md b/README.md
@@ -1,6 +1,6 @@
 # scootermedia.ae — Scooter UAE website (v2)
 
-A static, dependency-free website for **Scooter**, a creative production studio in Dubai.
+A static, dependency-free website for **Scooter**, a video production company and production partner in Dubai and India.
 Plain HTML, one CSS file and one small JS file, with no build step and no framework.
 
 ## Pages (one URL each, for SEO)
